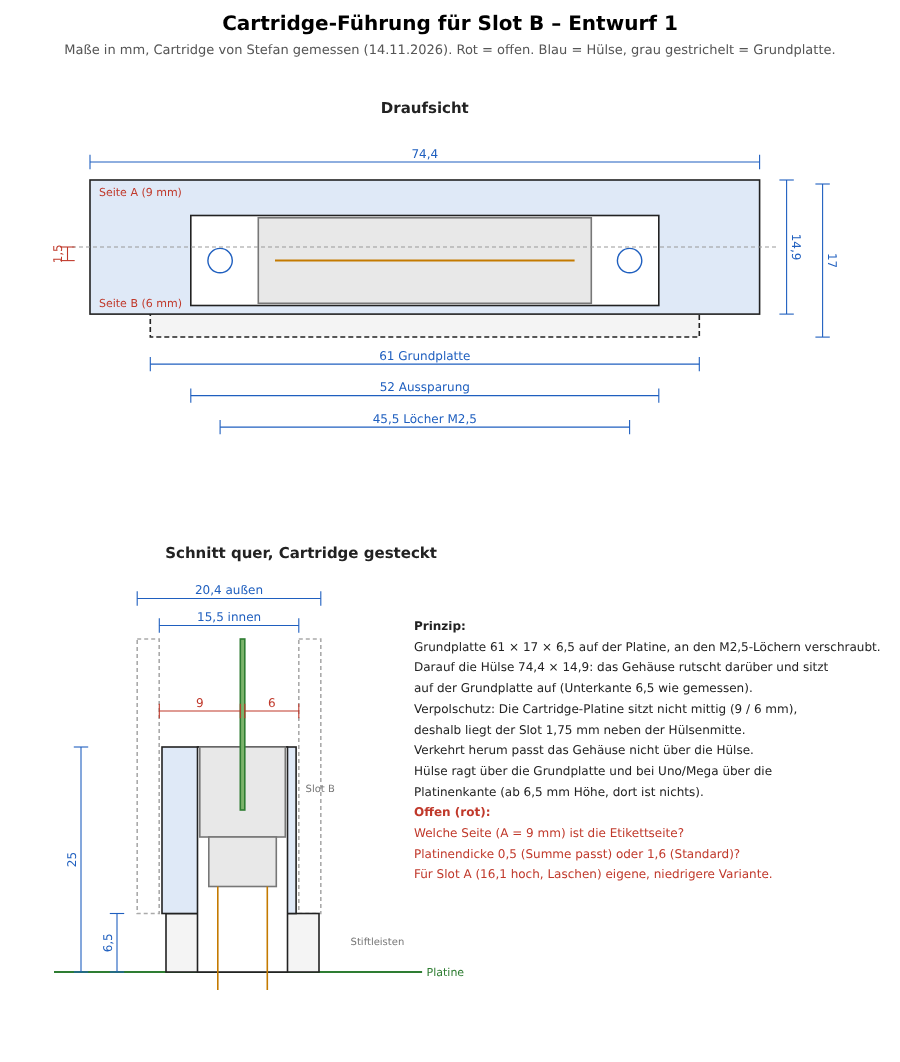
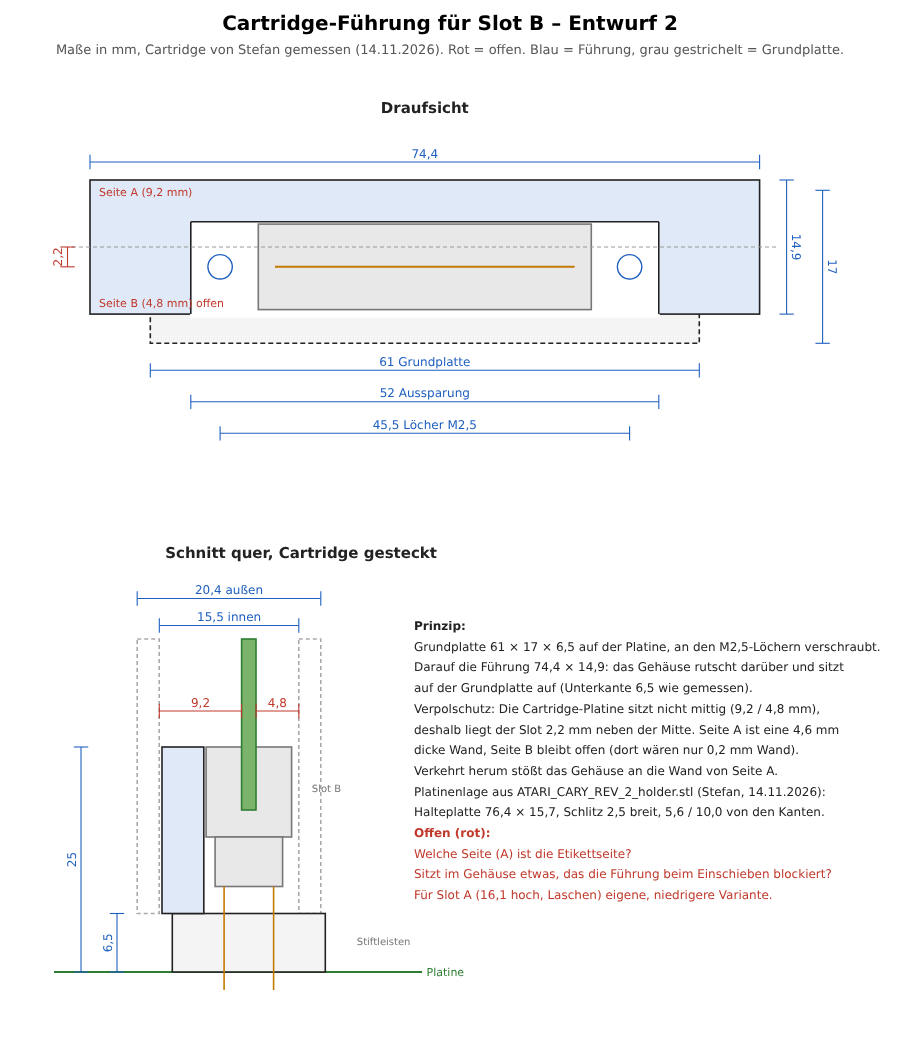
Cartridge guide draft 2: PCB position from cartridge holder model, side B open
Claude-Session: https://claude.ai/code/session_015VQCpzuZ22TPQEmx9cLrbH

diff --git a/hardware/guide-drawing/zeichnung.py b/hardware/guide-drawing/zeichnung.py
@@ -3,8 +3,8 @@ import sys
 # --- Messwerte Stefan 14.11.2026 ---
 SHELL_IN_L, SHELL_IN_W = 75.0, 15.5      # Cartridge-Gehaeuse innen (Steckende)
 SHELL_OUT_L, SHELL_OUT_W = 82.5, 20.4    # aussen
-PCB_A, PCB_B = 9.0, 6.0                  # Innenwand -> Cartridge-Platine, Seite A / Seite B
-PCB_T = 0.5                              # unsicher (Stefan: 0,5-0,6); 9 + 6 + 0,5 = 15,5 passt
+PCB_A, PCB_B = 9.24, 4.84                # Innenwand -> Cartridge-Platine, Seite A / B (aus ATARI_CARY_REV_2_holder.stl, Stefan gemessen ~9 / ~6)
+PCB_T = 1.6
 SLOT_TOP = 25.0                          # Oberkante Slot ueber Platine (Slot B auf Stiftleisten)
 SHELL_Z = 6.5                            # Unterkante Gehaeuse ueber Platine, Cartridge gesteckt
 # --- Slot B ---
@@ -13,7 +13,7 @@ SL_L, SL_W = 37.0, 9.5
 CLR = 0.3                                # Luft je Seite zum Gehaeuse
 SLV_L, SLV_W = SHELL_IN_L - 2 * CLR, SHELL_IN_W - 2 * CLR   # Huelse aussen
 CAV_L, CAV_W = 52.0, 10.0                # Aussparung fuer den Slot (passt auch fuer Slot A mit Laschen 51,3 x 9)
-OFF = (PCB_A + PCB_T / 2) - SHELL_IN_W / 2  # Versatz Slotmitte gegen Huelsenmitte = Verpolschutz
+OFF = (PCB_A + PCB_T / 2 - (PCB_B + PCB_T / 2)) / 2  # 2,2: groesster Versatz ist die sichere Seite
 BASE_L, BASE_W = 61.0, 17.0              # Grundplatte = freie Flaeche auf allen Platinen
 HOLE_X, HOLE_D = 22.75, 2.7              # M2,5-Loecher der Platine (Abstand 45,5)
 S = 9
@@ -44,7 +44,9 @@ cx, cy = ox + SLV_L / 2, oy + SLV_W / 2
 txt(cx, oy - 7.5, 'Draufsicht', 15, bold=True)
 rect(cx - BASE_L / 2, cy + OFF - BASE_W / 2, BASE_L, BASE_W, fill='#f4f4f4', dash='5,3')
 rect(ox, oy, SLV_L, SLV_W, fill='#dfe9f7')
-rect(cx - CAV_L / 2, cy + OFF - CAV_W / 2, CAV_L, CAV_W, fill='white')
+rect(cx - CAV_L / 2, cy + OFF - CAV_W / 2, CAV_L, oy + SLV_W - (cy + OFF - CAV_W / 2) + .3, fill='white', c='white')
+ln(cx - CAV_L / 2, cy + OFF - CAV_W / 2, cx + CAV_L / 2, cy + OFF - CAV_W / 2)
+for s in (-1, 1): ln(cx + s * CAV_L / 2, cy + OFF - CAV_W / 2, cx + s * CAV_L / 2, oy + SLV_W)
 rect(cx - SL_L / 2, cy + OFF - SL_W / 2, SL_L, SL_W, fill='#e8e8e8', c='#777')
 ln(cx - 16.65, cy + OFF, cx + 16.65, cy + OFF, PIN, 2)
 for s in (-1, 1):
@@ -57,8 +59,8 @@ dimh(cx - HOLE_X, cx + HOLE_X, cy + OFF + BASE_W / 2 + 10, f(2 * HOLE_X) + ' Lö
 dimv(ox + SLV_L + 3, oy, oy + SLV_W, f(SLV_W), left=False)
 dimv(ox + SLV_L + 7, cy + OFF - BASE_W / 2, cy + OFF + BASE_W / 2, f(BASE_W), left=False)
 dimv(ox - 2.5, cy, cy + OFF, f(OFF), RED)
-txt(ox + 1, oy + 1.8, 'Seite A (9 mm)', 11, RED, 'start')
-txt(ox + 1, oy + SLV_W - .8, 'Seite B (6 mm)', 11, RED, 'start')
+txt(ox + 1, oy + 1.8, 'Seite A (9,2 mm)', 11, RED, 'start')
+txt(ox + 1, oy + SLV_W - .8, 'Seite B (4,8 mm) offen', 11, RED, 'start')
 
 # --- Schnitt quer (kurze Seite) ---
 sx, base = 18, 108
@@ -72,8 +74,7 @@ for s in (-1, 1):
 # Grundplatte
 rect(scx + OFF - BASE_W / 2, base - SHELL_Z, BASE_W, SHELL_Z, fill='#f4f4f4')
 # Huelse
-rect(scx - SLV_W / 2, base - SLOT_TOP, SLV_W, SLOT_TOP - SHELL_Z, fill='#dfe9f7')
-rect(scx + OFF - CAV_W / 2, base - SLOT_TOP, CAV_W, SLOT_TOP, fill='white')
+rect(scx - SLV_W / 2, base - SLOT_TOP, (scx + OFF - CAV_W / 2) - (scx - SLV_W / 2), SLOT_TOP - SHELL_Z, fill='#dfe9f7')
 # Slot + Leisten
 rect(scx + OFF - SL_W / 2, base - SLOT_TOP, SL_W, 10, fill='#e8e8e8', c='#777')
 rect(scx + OFF - 7.5 / 2, base - SLOT_TOP + 10, 7.5, 5.5, fill='#e8e8e8', c='#777')
@@ -85,8 +86,8 @@ dimv(sx - 9, base - SLOT_TOP, base, f(SLOT_TOP))
 dimv(sx - 5, base - SHELL_Z, base, f(SHELL_Z))
 dimh(scx - SHELL_IN_W / 2, scx + SHELL_IN_W / 2, base - SLOT_TOP - 13.5, f(SHELL_IN_W) + ' innen')
 dimh(scx - SHELL_OUT_W / 2, scx + SHELL_OUT_W / 2, base - SLOT_TOP - 16.5, f(SHELL_OUT_W) + ' außen')
-dimh(scx - SHELL_IN_W / 2, scx + OFF - PCB_T / 2, base - SLOT_TOP - 4, f(PCB_A), RED)
-dimh(scx + OFF + PCB_T / 2, scx + SHELL_IN_W / 2, base - SLOT_TOP - 4, f(PCB_B), RED)
+dimh(scx - SHELL_IN_W / 2, scx + OFF - PCB_T / 2, base - SLOT_TOP - 4, '9,2', RED)
+dimh(scx + OFF + PCB_T / 2, scx + SHELL_IN_W / 2, base - SLOT_TOP - 4, '4,8', RED)
 txt(scx + OFF + 7, base - SLOT_TOP + 5, 'Slot B', 10, '#777', 'start')
 txt(scx + OFF + 12, base - SLOT_TOP + 22, 'Stiftleisten', 10, '#777', 'start')
 
@@ -94,21 +95,22 @@ txt(scx + OFF + 12, base - SLOT_TOP + 22, 'Stiftleisten', 10, '#777', 'start')
 nx, ny = 46, 70
 notes = [('Prinzip:', '#222', True),
          ('Grundplatte 61 × 17 × 6,5 auf der Platine, an den M2,5-Löchern verschraubt.', '#222', False),
-         ('Darauf die Hülse 74,4 × 14,9: das Gehäuse rutscht darüber und sitzt', '#222', False),
+         ('Darauf die Führung 74,4 × 14,9: das Gehäuse rutscht darüber und sitzt', '#222', False),
          ('auf der Grundplatte auf (Unterkante 6,5 wie gemessen).', '#222', False),
-         ('Verpolschutz: Die Cartridge-Platine sitzt nicht mittig (9 / 6 mm),', '#222', False),
-         ('deshalb liegt der Slot 1,75 mm neben der Hülsenmitte.', '#222', False),
-         ('Verkehrt herum passt das Gehäuse nicht über die Hülse.', '#222', False),
-         ('Hülse ragt über die Grundplatte und bei Uno/Mega über die', '#222', False),
-         ('Platinenkante (ab 6,5 mm Höhe, dort ist nichts).', '#222', False),
+         ('Verpolschutz: Die Cartridge-Platine sitzt nicht mittig (9,2 / 4,8 mm),', '#222', False),
+         ('deshalb liegt der Slot 2,2 mm neben der Mitte. Seite A ist eine 4,6 mm', '#222', False),
+         ('dicke Wand, Seite B bleibt offen (dort wären nur 0,2 mm Wand).', '#222', False),
+         ('Verkehrt herum stößt das Gehäuse an die Wand von Seite A.', '#222', False),
+         ('Platinenlage aus ATARI_CARY_REV_2_holder.stl (Stefan, 14.11.2026):', '#222', False),
+         ('Halteplatte 76,4 × 15,7, Schlitz 2,5 breit, 5,6 / 10,0 von den Kanten.', '#222', False),
          ('Offen (rot):', RED, True),
-         ('Welche Seite (A = 9 mm) ist die Etikettseite?', RED, False),
-         ('Platinendicke 0,5 (Summe passt) oder 1,6 (Standard)?', RED, False),
+         ('Welche Seite (A) ist die Etikettseite?', RED, False),
+         ('Sitzt im Gehäuse etwas, das die Führung beim Einschieben blockiert?', RED, False),
          ('Für Slot A (16,1 hoch, Laschen) eigene, niedrigere Variante.', RED, False)]
 for i, (t, c, b) in enumerate(notes):
     txt(nx, ny + i * 2.3, t, 12, c, 'start', bold=b)
 w, h = 100 * S, 118 * S
 svg = f'<svg xmlns="http://www.w3.org/2000/svg" width="{w}" height="{h}" viewBox="0 0 {w} {h}"><rect width="100%" height="100%" fill="white"/>' + \
-      f'<text x="{w/2}" y="30" font-family="DejaVu Sans, sans-serif" font-size="20" font-weight="bold" text-anchor="middle">Cartridge-Führung für Slot B – Entwurf 1</text>' + \
-      f'<text x="{w/2}" y="54" font-family="DejaVu Sans, sans-serif" font-size="13" fill="#555" text-anchor="middle">Maße in mm, Cartridge von Stefan gemessen (14.11.2026). Rot = offen. Blau = Hülse, grau gestrichelt = Grundplatte.</text>' + ''.join(out) + '</svg>'
+      f'<text x="{w/2}" y="30" font-family="DejaVu Sans, sans-serif" font-size="20" font-weight="bold" text-anchor="middle">Cartridge-Führung für Slot B – Entwurf 2</text>' + \
+      f'<text x="{w/2}" y="54" font-family="DejaVu Sans, sans-serif" font-size="13" fill="#555" text-anchor="middle">Maße in mm, Cartridge von Stefan gemessen (14.11.2026). Rot = offen. Blau = Führung, grau gestrichelt = Grundplatte.</text>' + ''.join(out) + '</svg>'
 open(sys.argv[1], 'w').write(svg)
